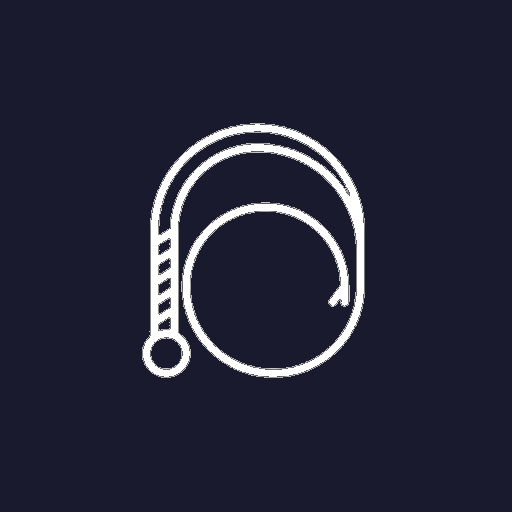
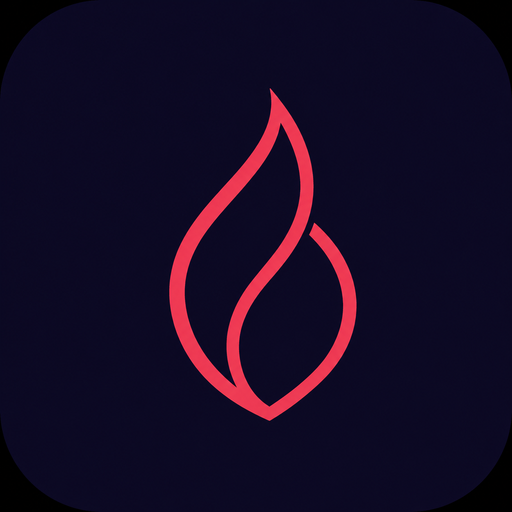
Add files via upload

diff --git a/index.html b/index.html
@@ -6,10 +6,11 @@
 <meta name="apple-mobile-web-app-capable" content="yes">
 <meta name="apple-mobile-web-app-status-bar-style" content="black-translucent">
 <meta name="theme-color" content="#1a1a2e">
-<title>Sub Pflichten</title>
+<title>Devotion</title>
 <link rel="manifest" href="manifest.json">
+<link rel="icon" type="image/png" sizes="64x64" href="favicon.png">
 <link rel="icon" type="image/png" sizes="192x192" href="icon-192.png">
-<link rel="apple-touch-icon" href="icon-192.png">
+<link rel="apple-touch-icon" sizes="180x180" href="icon-180.png">
 <meta name="mobile-web-app-capable" content="yes">
 <style>
 :root {
@@ -293,6 +294,11 @@ input[type="number"] { -moz-appearance:textfield; }
 </style>
 </head>
 <body>
+
+<!-- ── Splash Screen ── -->
+<div id="splashScreen" style="position:fixed;inset:0;z-index:9999;background:#1a1a2e;display:flex;align-items:center;justify-content:center;transition:opacity .5s;">
+  <img src="devotion-splash-final.png" alt="Devotion" style="max-width:80%;max-height:80%;object-fit:contain;">
+</div>
 
 <div class="sync-bar" id="syncBar"></div>
 <div class="conn-status">
@@ -3113,6 +3119,11 @@ if (savedCode) {
 } else {
   document.getElementById('setupScreen').classList.remove('hidden');
 }
+// ── Splash Screen ausblenden ──
+setTimeout(() => {
+  const splash = document.getElementById('splashScreen');
+  if (splash) { splash.style.opacity = '0'; setTimeout(() => splash.remove(), 500); }
+}, 1800);
 </script>
 </body>
 </html>

diff --git a/sw.js b/sw.js
@@ -36,13 +36,16 @@ self.addEventListener('notificationclick', e => {
 });
 
 // ── Cache (PWA offline) ──
-const CACHE_NAME = 'pflichten-v38';
+const CACHE_NAME = 'devotion-v39';
 const ASSETS = [
   './',
   './index.html',
   './manifest.json',
   './icon-192.png',
-  './icon-512.png'
+  './icon-512.png',
+  './icon-180.png',
+  './favicon.png',
+  './devotion-splash-final.png'
 ];
 
 self.addEventListener('install', e => {